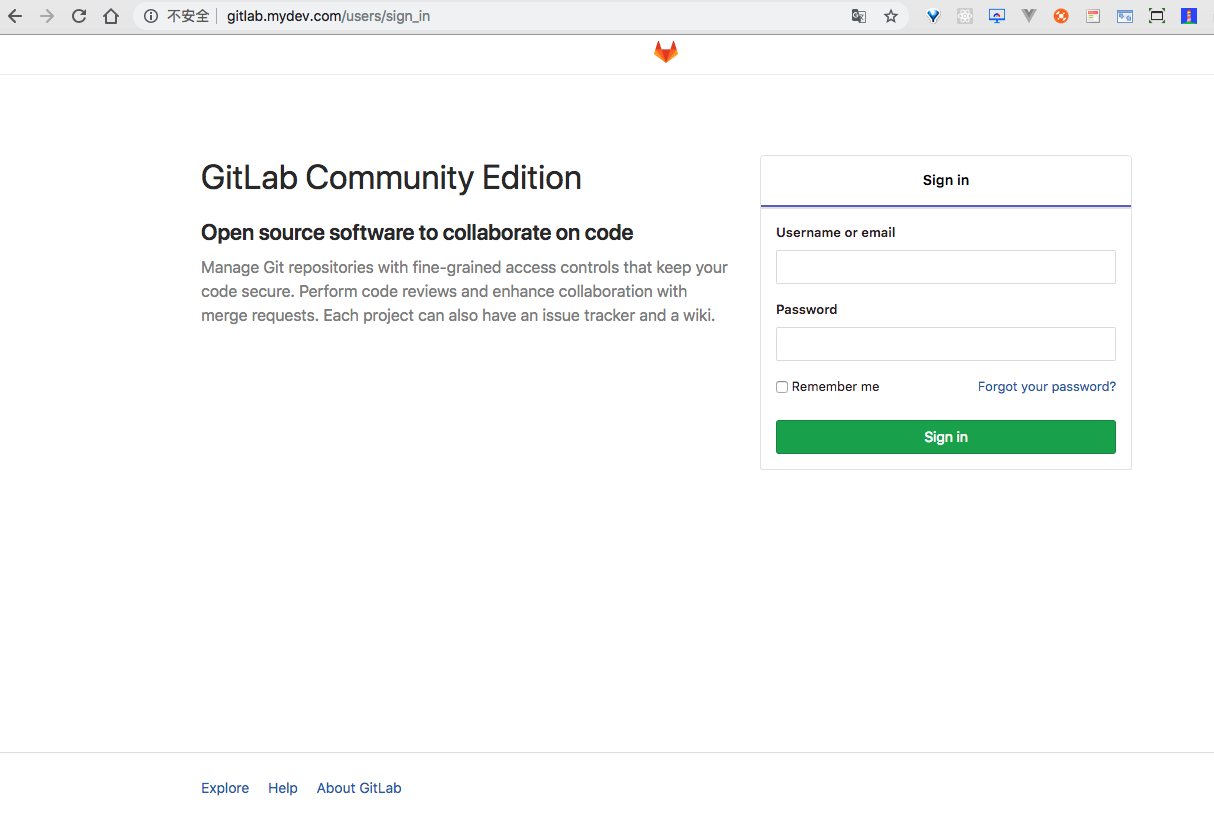
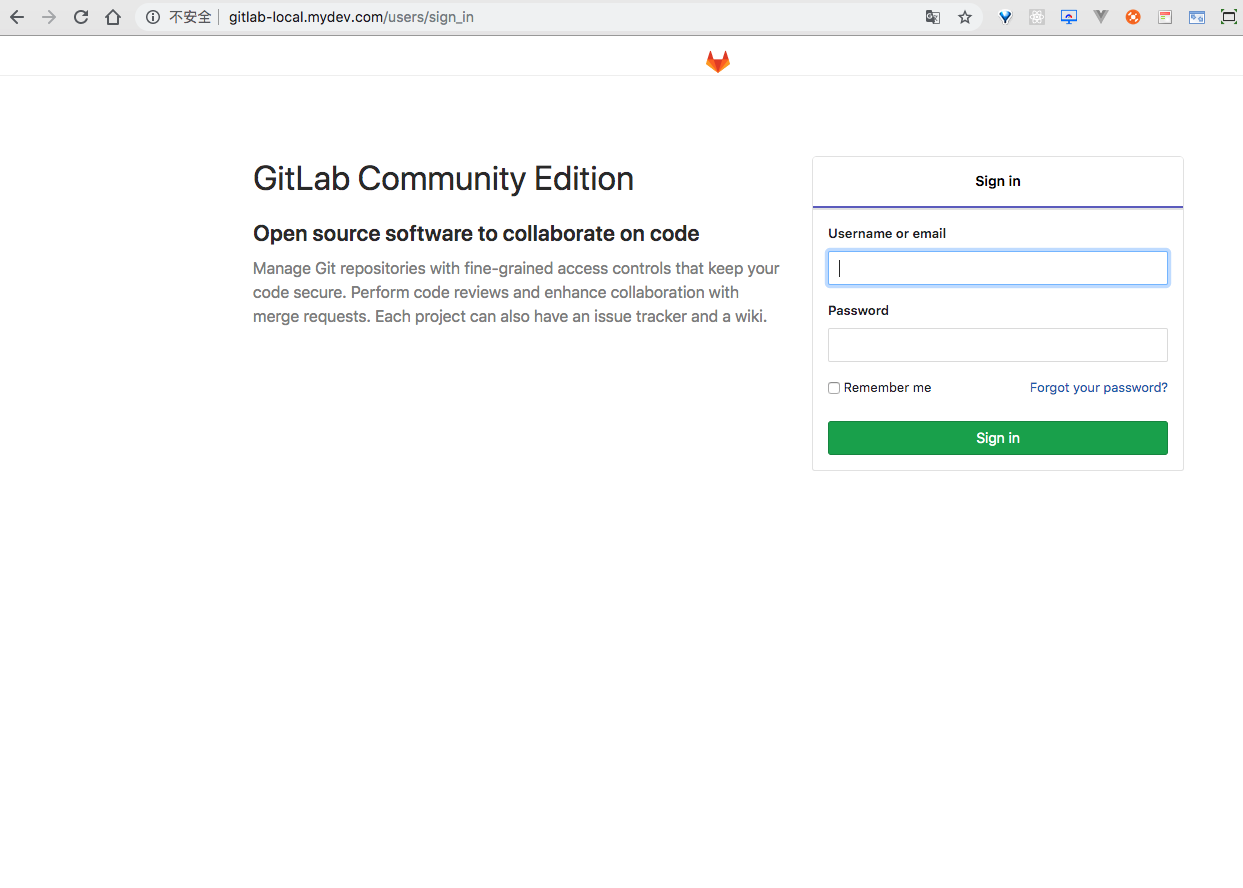
change local host

diff --git a/README.md b/README.md
@@ -16,6 +16,8 @@ Docker deploying Nginx MySQL PHP Gitlab Postgres in one key.
 10. Supported any OS with docker.
 11. Use docker env file named global project name and nginx dev or prod conf folder name
 
+
+
 ### Usage
 1. Install `git`, `docker` and `docker-compose`;
 2. Clone project:
@@ -41,19 +43,19 @@ Docker deploying Nginx MySQL PHP Gitlab Postgres in one key.
     You may need use `sudo` before this command in Linux.
 5. To preview them, add 2 lines to your hosts file (at `/etc/hosts` on Linux and `C:\Windows\System32\drivers\etc\hosts` on Windows):
     ```
-    127.0.0.1 site1.mydev.com
-    127.0.0.1 site2.mydev.com
-    127.0.0.1 nodejs.mydev.com
-    127.0.0.1 gitlab.mydev.com
+    127.0.0.1 site1-local.mydev.com
+    127.0.0.1 site2-local.mydev.com
+    127.0.0.1 nodejs-local.mydev.com
+    127.0.0.1 gitlab-local.mydev.com
     ```
     Then you can visit from browser.
-6. Go to your browser and type `http://site1.mydev.com`, you will see php72:
+6. Go to your browser and type `http://site1-local.mydev.com`, you will see php72:
 ![Demo Image](./doc/site1.png)
-7. Go to your browser and type `http://site2.mydev.com`, you will see php56:
+7. Go to your browser and type `http://site2-local.mydev.com`, you will see php56:
 ![Demo Image](./doc/site2.png)
-8. Go to your browser and type `http://nodejs.mydev.com`, you will see nodejs:
+8. Go to your browser and type `http://nodejs-local.mydev.com`, you will see nodejs:
 ![Demo Image](./doc/nodejs.png)
-9. Go to your browser and type `http://gitlab.mydev.com`, you will see gitlab:
+9. Go to your browser and type `http://gitlab-local.mydev.com`, you will see gitlab:
 ![Demo Image](./doc/gitlab.png)
 
 ### Projects
@@ -61,10 +63,10 @@ Docker deploying Nginx MySQL PHP Gitlab Postgres in one key.
 
 ### HTTPS and HTTP/2
 Default demos:
-* http://site1.mydev.com
-* http://site2.mydev.com
-* http://nodejs.mydev.com
-* http://gitlab.mydev.com
+* http://site1-local.mydev.com
+* http://site2-local.mydev.com
+* http://nodejs-local.mydev.com
+* http://gitlab-local.mydev.com
 
 ### Reference resources
 - [yeszao/dnmp](https://github.com/yeszao/dnmp)
